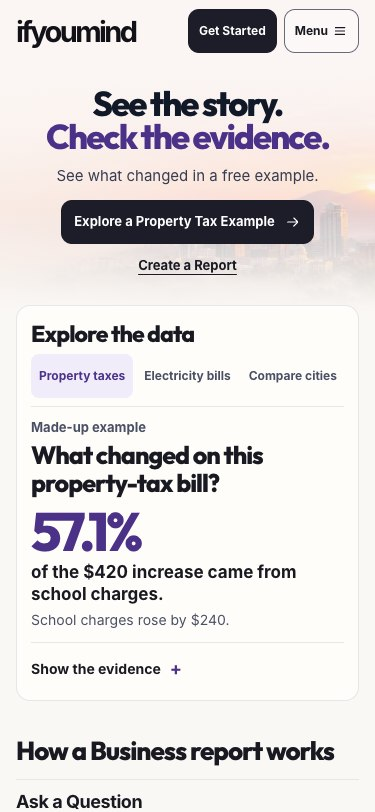
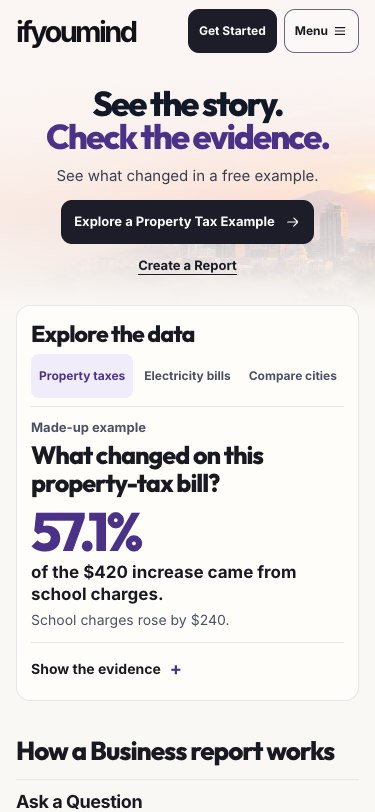
Keep the flagship finding in view with fallback fonts

diff --git a/src/app/intelligence/public-landing.component.scss b/src/app/intelligence/public-landing.component.scss
@@ -6,12 +6,12 @@
   --secondary: #495065;
   --border: #e8e5eb;
   --purple: #4c3189;
-  --display: Outfit, Inter, system-ui, sans-serif;
+  --display: Outfit, Inter, Arial, system-ui, sans-serif;
   --soft-purple: #f0ecfa;
   --dark: #1d1d29;
   color: var(--ink);
   background: var(--page);
-  font: 16px/1.5 Inter, system-ui, -apple-system, BlinkMacSystemFont, sans-serif;
+  font: 16px/1.5 Inter, Arial, system-ui, sans-serif;
 }
 
 * { box-sizing: border-box; }

diff --git a/src/app/intelligence/public-landing-visual-mobile.component.scss b/src/app/intelligence/public-landing-visual-mobile.component.scss
@@ -70,9 +70,10 @@
 }
 
 @media (max-width: 350px) {
+  .header-inner { column-gap: 4px; }
   .header-actions { gap: 4px; }
-  .header-actions .button { padding-inline: 7px; }
-  .header-inner .wordmark { font-size: 27px; }
+  .header-actions .button { padding-inline: 6px; }
+  .header-inner .wordmark { font-size: 26px; }
   .hero-inner { padding-block: 17px 13px; }
   .hero h1 { font-size: 30px; }
   .hero-lede { margin-top: 10px; }

diff --git a/src/app/intelligence/public-landing-discovery.component.scss b/src/app/intelligence/public-landing-discovery.component.scss
@@ -34,7 +34,7 @@
   border-radius: 8px;
   color: var(--secondary);
   background: transparent;
-  font: 650 13px/1.3 Inter, system-ui, sans-serif;
+  font: 650 13px/1.3 Inter, Arial, system-ui, sans-serif;
   overflow-wrap: anywhere;
   cursor: pointer;
 }

diff --git a/docs/agent-handoff/DEVELOPMENT_LOG.md b/docs/agent-handoff/DEVELOPMENT_LOG.md
@@ -510,5 +510,5 @@ Exact final commit/PR and independently executed CI status recorded in GitHub/co
 
 - OpenAI / Codex. [Issue #89](https://github.com/alwat83/ifyoumind/issues/89). Branch `codex/wow-2-1-property-tax-20261112` from master `449f829f733553c4c8afbf6c0748d82566b0048e`. Founder selected tday during implementation. Applied its editorial hierarchy with existing ifYouMind artwork and type.
 - Updated the Angular public landing template, scoped SCSS, homepage example presentation and browser coverage. The free tax CTA goes directly to the existing synthetic example, the page leads with the 57.1% finding, and a native disclosure preserves calculations and provenance. Following the founder’s final simplification direction, the default preview places the repeated full-example link after the evidence and removes duplicated source wording. No dependencies or backend source changed.
-- [Screenshot comparisons, commands and QA scope](../design/wow-2-1-20261112/REVIEW.md). GitHub draft PR checks carry exact-head results. Updated the current snapshot, master record and growth plan. Notion coordination uses the existing Wow 2.1 section.
+- [Screenshot comparisons, commands and QA scope](../design/wow-2-1-20261112/REVIEW.md). GitHub draft PR #90 carries exact-head results. An earlier Linux QA run exposed a fallback-font wrap at 320 px. Narrower local font fallbacks and header spacing preserve the full first finding without changing the viewport assertion. Updated the current snapshot, master record and growth plan. Notion coordination uses the existing Wow 2.1 section.
 - #88 is the verified production baseline. Wow 2.1 awaits the founder's visual and release decision. Next validate comprehension with the supplied script and measure flagship progression only through approved existing reporting.
